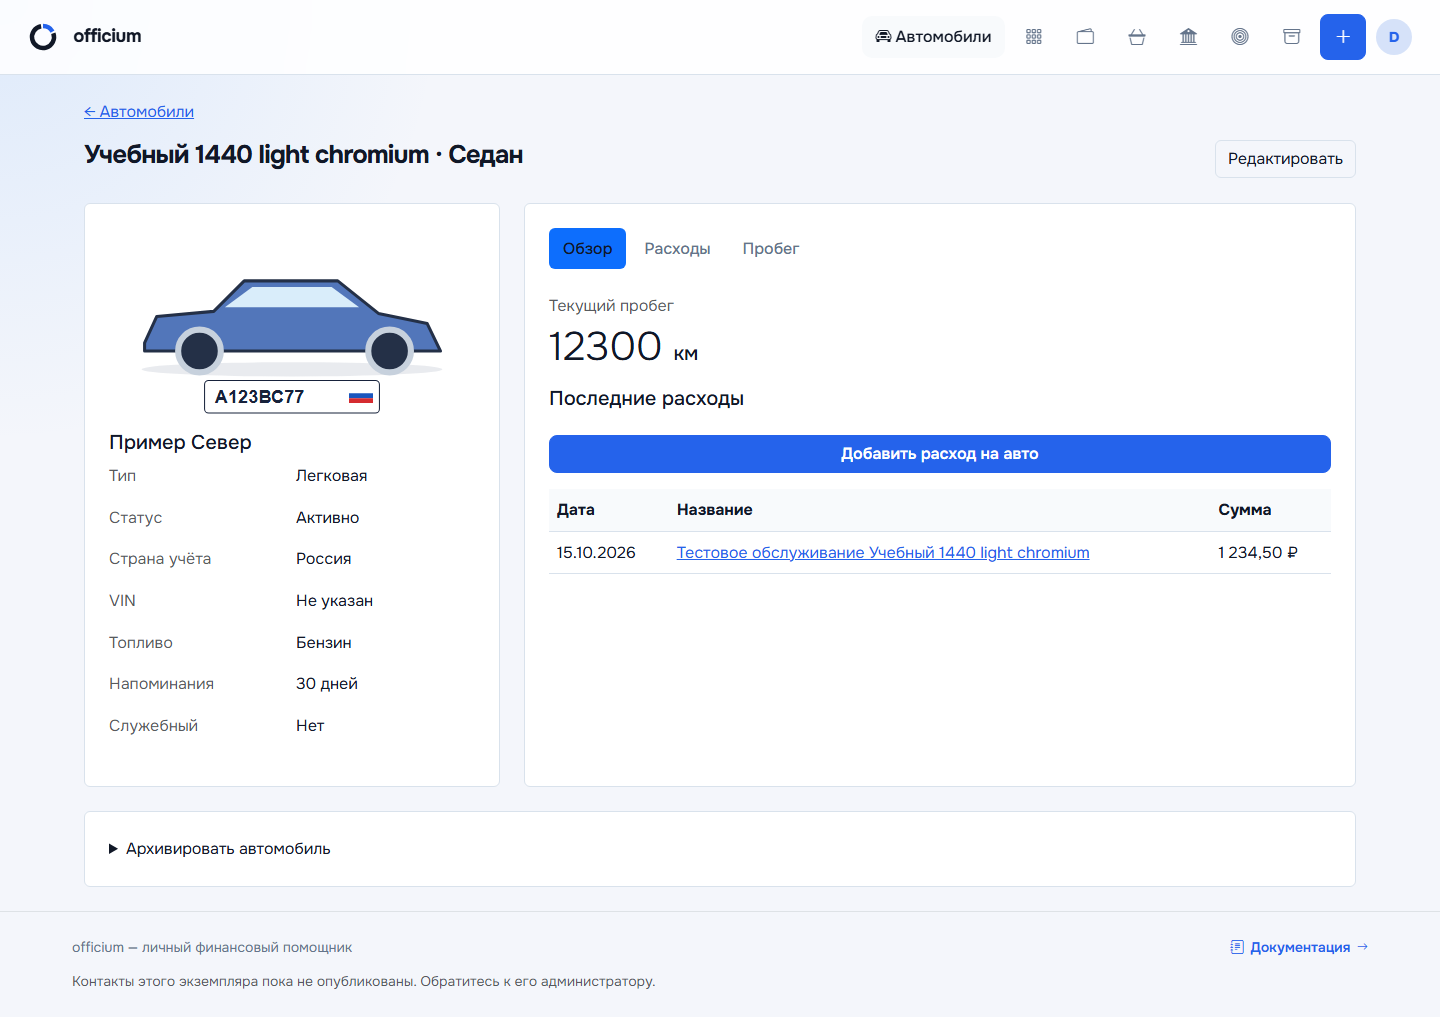
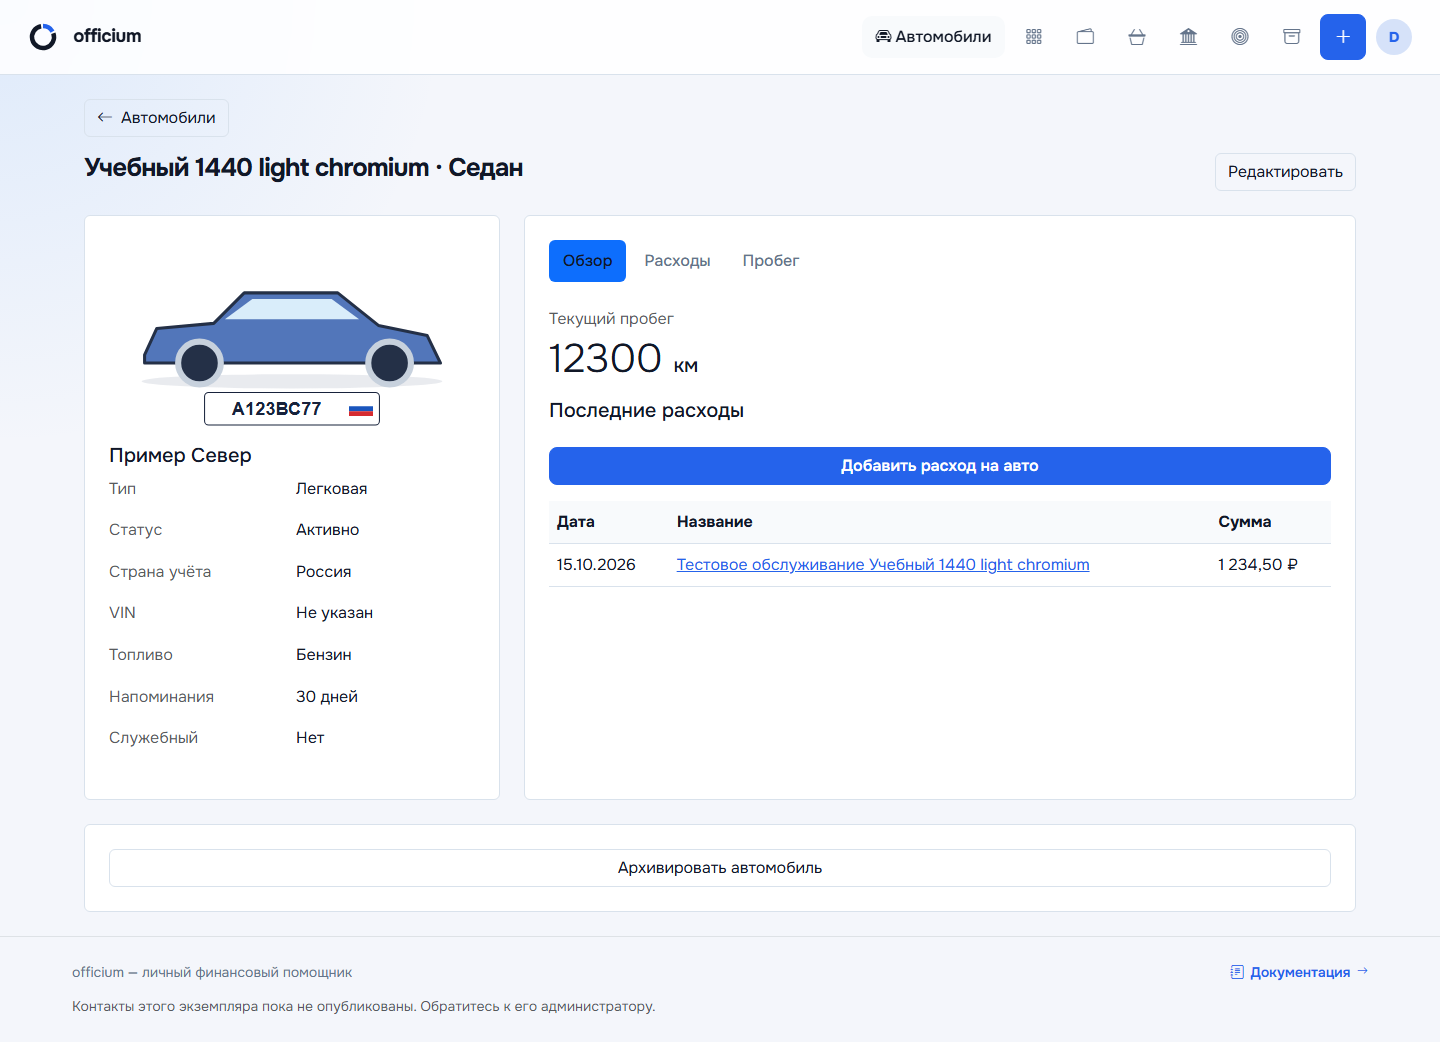
fix(vehicles): style navigation buttons and center plate values

diff --git a/templates/vehicles/detail.html b/templates/vehicles/detail.html
@@ -3,15 +3,15 @@
 {% block title %}{{ vehicle.name }} — Автомобили{% endblock %}
 {% block content %}
 <link rel="stylesheet" href="{{ url_for('static', filename='css/vehicles.css') }}">
-<a href="{{ url_for('vehicles') }}">← Автомобили</a>
+<a class="btn btn-outline-secondary vehicle-button" href="{{ url_for('vehicles') }}"><i class="bi bi-arrow-left" aria-hidden="true"></i><span>Автомобили</span></a>
 <div class="d-flex flex-wrap justify-content-between gap-3 mt-3"><h1 class="page-title">{{ vehicle.name }}</h1>{% if not vehicle.archived_at %}<a class="btn btn-outline-primary align-self-start" href="{{ url_for('edit_vehicle',vehicle_id=vehicle.id) }}">Редактировать</a>{% endif %}</div>
 {% if vehicle.archived_at %}<div class="alert alert-secondary mt-3">Автомобиль в архиве · {{ archive_reasons[vehicle.archive_reason] }}. Только просмотр.<p class="mb-0">{{ vehicle.archive_note or '' }}</p></div>{% endif %}
 <div class="vehicle-detail-grid mt-4">
 <section class="card p-4">{{ visual(vehicle) }}<h2 class="h5">{{ vehicle.make or '' }} {{ vehicle.model or '' }} {{ vehicle.year or '' }}</h2>
 <dl class="vehicle-facts"><dt>Тип</dt><dd>{{ vehicle_kinds[vehicle.kind] }}</dd><dt>Статус</dt><dd>{{ vehicle_statuses[vehicle.status] }}</dd><dt>Страна учёта</dt><dd>{{ vehicle.country.name if vehicle.country else 'Не указана' }}</dd><dt>VIN</dt><dd>{{ vehicle.vin or 'Не указан' }}</dd>
 {% if vehicle.kind!='trailer' %}<dt>Топливо</dt><dd>{{ vehicle_fuels[vehicle.fuel_type] }}</dd><dt>Напоминания</dt><dd>{{ vehicle.mileage_reminder_days }} дней</dd>{% endif %}<dt>Служебный</dt><dd>{{ 'Да' if vehicle.is_company else 'Нет' }}</dd></dl>
-{% if vehicle.tractor %}<h3 class="h6">Текущий тягач</h3><a href="{{ url_for('vehicle_detail',vehicle_id=vehicle.tractor.id) }}">{{ vehicle.tractor.name }}</a>{% endif %}
-{% if vehicle.trailers %}<h3 class="h6 mt-3">Прицепы</h3>{% for trailer in vehicle.trailers %}<div class="vehicle-trailer">{{ visual(trailer) }}<a href="{{ url_for('vehicle_detail',vehicle_id=trailer.id) }}">{{ trailer.name }}</a></div>{% endfor %}{% endif %}
+{% if vehicle.tractor %}<h3 class="h6">Текущий тягач</h3><a class="btn btn-outline-primary vehicle-button vehicle-related-link" href="{{ url_for('vehicle_detail',vehicle_id=vehicle.tractor.id) }}">{{ vehicle.tractor.name }}</a>{% endif %}
+{% if vehicle.trailers %}<h3 class="h6 mt-3">Прицепы</h3>{% for trailer in vehicle.trailers %}<div class="vehicle-trailer">{{ visual(trailer) }}<a class="btn btn-outline-primary vehicle-button vehicle-related-link" href="{{ url_for('vehicle_detail',vehicle_id=trailer.id) }}">{{ trailer.name }}</a></div>{% endfor %}{% endif %}
 </section>
 <section class="card p-4">
 {% set tab=request.args.get('tab','overview') %}<nav class="nav nav-pills gap-1 mb-4" aria-label="Вкладки автомобиля">{% for key,label in [('overview','Обзор'),('expenses','Расходы'),('mileage','Пробег')] %}{% if key!='mileage' or vehicle.kind!='trailer' %}<a class="nav-link {% if tab==key %}active{% endif %}" href="{{ url_for('vehicle_detail',vehicle_id=vehicle.id,tab=key) }}">{{ label }}</a>{% endif %}{% endfor %}</nav>
@@ -29,6 +29,6 @@
 </div>
 <section class="card p-4 mt-4">
 {% if vehicle.archived_at %}<form method="post" action="{{ url_for('restore_vehicle',vehicle_id=vehicle.id) }}"><input type="hidden" name="csrf_token" value="{{ csrf_token() }}"><button class="btn btn-outline-primary">Восстановить автомобиль</button></form>
-{% else %}<details><summary>Архивировать автомобиль</summary><form method="post" action="{{ url_for('archive_vehicle',vehicle_id=vehicle.id) }}" class="mt-3"><input type="hidden" name="csrf_token" value="{{ csrf_token() }}"><label for="archiveReason">Причина<select id="archiveReason" name="reason" class="form-select">{% for key,label in archive_reasons.items() %}<option value="{{ key }}">{{ label }}</option>{% endfor %}</select></label><label for="archiveNote" class="d-block mt-3">Примечание<textarea id="archiveNote" name="note" maxlength="2000" class="form-control"></textarea></label><button class="btn btn-outline-danger mt-3">В архив</button></form></details>{% endif %}
+{% else %}<button class="btn btn-outline-secondary vehicle-button" type="button" data-bs-toggle="collapse" data-bs-target="#vehicleArchiveForm" aria-expanded="false" aria-controls="vehicleArchiveForm">Архивировать автомобиль</button><div class="collapse" id="vehicleArchiveForm"><form method="post" action="{{ url_for('archive_vehicle',vehicle_id=vehicle.id) }}" class="mt-3"><input type="hidden" name="csrf_token" value="{{ csrf_token() }}"><label for="archiveReason" class="vehicle-archive-reason">Причина<select id="archiveReason" name="reason" class="form-select vehicle-select-centered">{% for key,label in archive_reasons.items() %}<option value="{{ key }}">{{ label }}</option>{% endfor %}</select></label><label for="archiveNote" class="d-block mt-3">Примечание<textarea id="archiveNote" name="note" maxlength="2000" class="form-control"></textarea></label><button class="btn btn-outline-danger mt-3">В архив</button></form></div>{% endif %}
 </section>
 {% endblock %}

diff --git a/static/css/vehicles.css b/static/css/vehicles.css
@@ -1,1 +1,2 @@
 .vehicle-grid{display:grid;grid-template-columns:repeat(auto-fill,minmax(min(100%,280px),1fr));gap:1.25rem}.vehicle-visual{width:100%;max-height:220px;display:block}.vehicle-card{min-width:0}.vehicle-card h2,.vehicle-facts dd{overflow-wrap:anywhere}.vehicle-filters{display:flex;flex-direction:row;flex-wrap:wrap;gap:1rem;align-items:end}.vehicle-filters label{flex:1 1 150px}.vehicle-filters label:first-child{flex:2 1 220px}.vehicle-detail-grid{display:grid;grid-template-columns:minmax(0,1fr) minmax(0,2fr);gap:1.5rem}.vehicle-detail-grid>section{min-width:0}.vehicle-facts{display:grid;grid-template-columns:1fr 1fr;gap:.5rem}.vehicle-facts dt{font-weight:400;color:var(--bs-secondary-color)}.vehicle-form{display:grid;grid-template-columns:1fr 1fr;gap:1.25rem}.vehicle-form-actions{grid-column:1/-1}.vehicle-form label{min-width:0}.vehicle-trailer{max-width:260px}.mileage-reminder input{max-width:100%}@media(max-width:767px){.vehicle-detail-grid,.vehicle-form{grid-template-columns:minmax(0,1fr)}.vehicle-filters label{flex-basis:100%}.vehicle-detail-grid .card,.vehicle-form{padding:1rem!important}.vehicle-visual{max-height:190px}}
+.vehicle-button{display:inline-flex;align-items:center;justify-content:center;gap:.5rem;text-align:center;text-decoration:none;white-space:normal}.vehicle-related-link{width:100%;overflow-wrap:anywhere}.vehicle-archive-reason{display:block;width:100%;max-width:22rem}.vehicle-select-centered{padding-inline:2.5rem;text-align:center;text-align-last:center}.vehicle-select-centered option{text-align:center}.vehicle-form input[name="plate"]{text-align:center}.vehicle-detail-grid .btn,.vehicle-form .btn{align-items:center;justify-content:center;text-align:center}

diff --git a/templates/vehicles/_visual.html b/templates/vehicles/_visual.html
@@ -3,9 +3,9 @@
     <use href="{{ url_for('static', filename='images/vehicles/' ~ vehicle.body_type ~ '.svg') }}#body"/>
     {% if vehicle.plate %}
     <rect x="94" y="150" width="172" height="32" rx="4" fill="#fff" stroke="#17223b"/>
-    <text x="104" y="172" fill="#17223b" font-size="18" font-family="sans-serif" font-weight="700">{{ vehicle.plate }}</text>
-    {% if vehicle.country and vehicle.country.flag_path %}<image href="{{ url_for('static', filename=vehicle.country.flag_path) }}" x="236" y="157" width="24" height="16"/>
-    {% elif vehicle.country %}<text x="239" y="170" fill="#17223b" font-size="8">{{ vehicle.country.code }}</text>{% endif %}
+    <text class="vehicle-plate-value" x="165" y="166" text-anchor="middle" dominant-baseline="central" fill="#17223b" font-size="18" font-family="sans-serif" font-weight="700" {% if vehicle.plate|length > 9 %}textLength="126" lengthAdjust="spacingAndGlyphs"{% endif %}>{{ vehicle.plate }}</text>
+    {% if vehicle.country and vehicle.country.flag_path %}<image href="{{ url_for('static', filename=vehicle.country.flag_path) }}" x="236" y="158" width="24" height="16"/>
+    {% elif vehicle.country %}<text x="248" y="166" text-anchor="middle" dominant-baseline="central" fill="#17223b" font-size="8">{{ vehicle.country.code }}</text>{% endif %}
     {% endif %}
 </svg>
 {% endmacro %}

diff --git a/templates/vehicles/form.html b/templates/vehicles/form.html
@@ -2,7 +2,7 @@
 {% block title %}{{ 'Редактировать' if vehicle else 'Добавить' }} автомобиль — officium{% endblock %}
 {% block content %}
 <link rel="stylesheet" href="{{ url_for('static', filename='css/vehicles.css') }}">
-<a href="{{ url_for('vehicle_detail',vehicle_id=vehicle.id) if vehicle else url_for('vehicles') }}">← Автомобили</a>
+<a class="btn btn-outline-secondary vehicle-button" href="{{ url_for('vehicle_detail',vehicle_id=vehicle.id) if vehicle else url_for('vehicles') }}"><i class="bi bi-arrow-left" aria-hidden="true"></i><span>Автомобили</span></a>
 <h1 class="page-title my-4">{{ 'Редактировать' if vehicle else 'Добавить' }} автомобиль</h1>
 <form method="post" class="card p-4 vehicle-form">
     <input type="hidden" name="csrf_token" value="{{ csrf_token() }}">

diff --git a/CHANGELOG.md b/CHANGELOG.md
@@ -16,6 +16,8 @@
 
 ### Изменено
 
+- Переходы к списку автомобилей и связанным тягачам/прицепам оформлены
+  кнопками; причина архивации и значения госномеров выровнены по центру.
 - Из подписей полей автомобиля и названия прицепа убрано слово «необязательно».
 - Выбор автомобиля в форме расхода показывается при переходе из карточки
   автомобиля и редактировании привязанного расхода; в обычной форме он скрыт.
